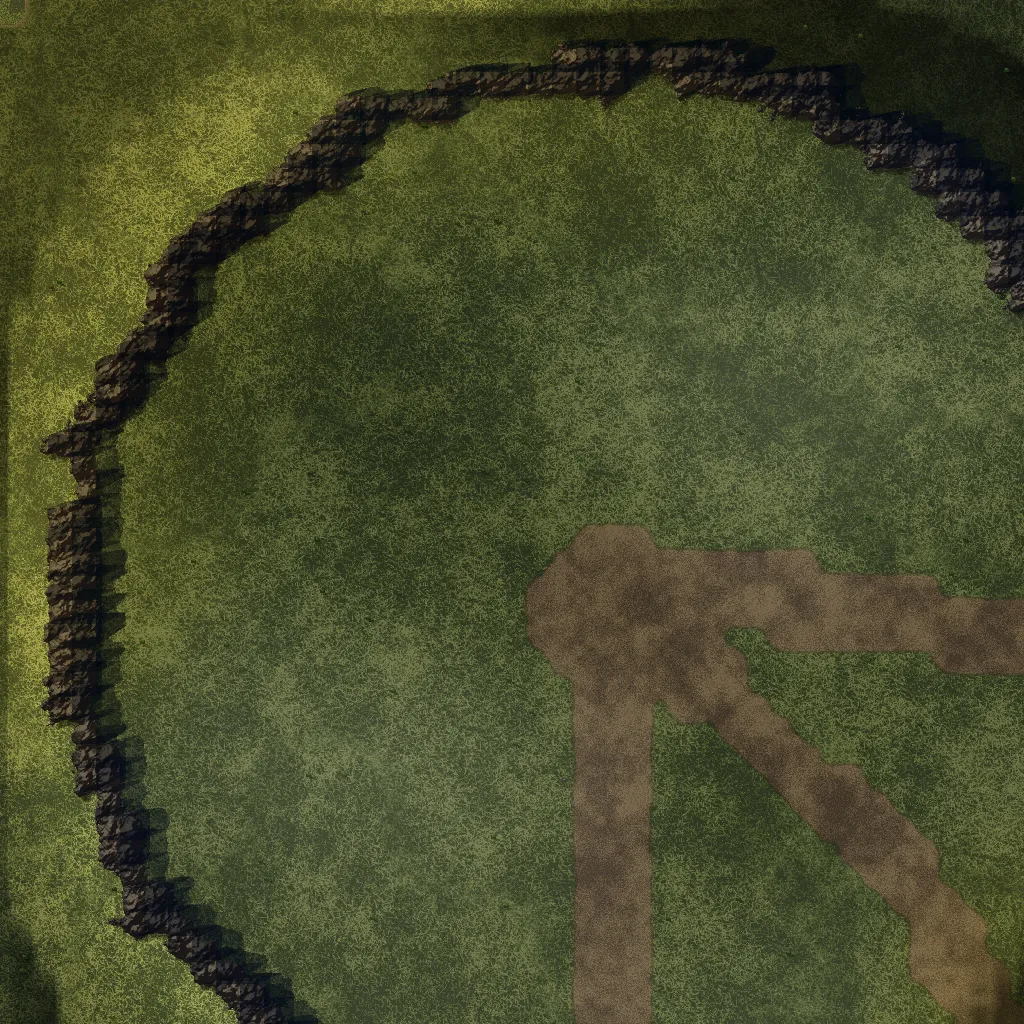
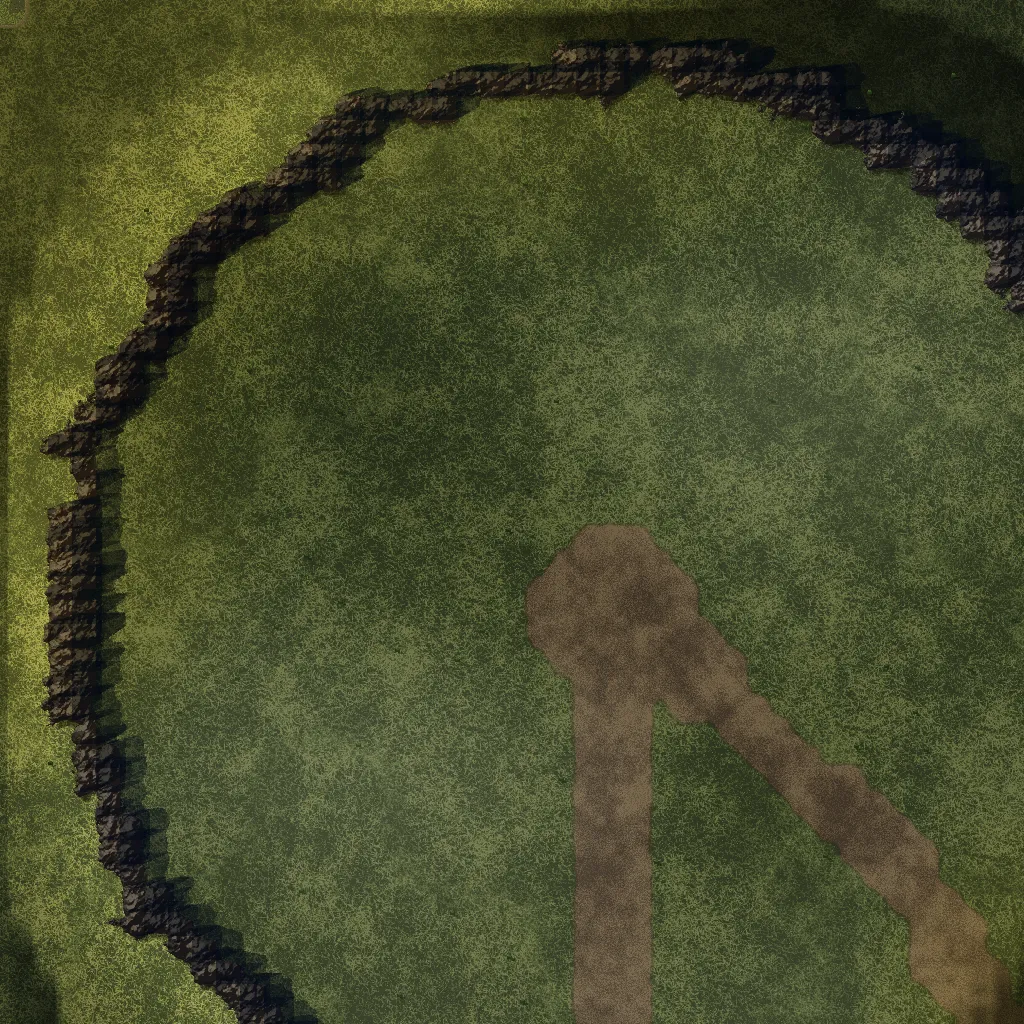
Heron Fen: one way across, through the village
The enemy-facing ramps and the causeways along the north and south edges
are gone; deep water runs from both edges to the village island, so
every west-east route crosses the town (make-marsh-map.py asserts it).
Before, the edge routes were about as short as the way through the
village and the computer fought there: in 14-minute computer 2 v 2s the
share of units lost in the village went from 6-8% to 39-47%. Ground,
crags and the map preview rebaked for the new layout.

Claude-Session: https://claude.ai/code/session_018itzs5AU5qvSmZLs2mza4P

Changed region(s): [[0.6562, 0.5312, 1.0, 0.6562]]

diff --git a/src/maps.js b/src/maps.js
@@ -1193,7 +1193,7 @@ const MAPS = {
   marsh: {
     name: 'Heron Fen',
     img: 'maps/marsh.png',
-    blurb: 'Four bases on high plateaus ringed by cliffs, each with three ramps down into a misty fen. Wade the shallows, skirt the deep pools and reed beds, or take the mud causeways to the little fishing village on its island in the middle. Always early morning, always fog in the low ground, and now and then rain.',
+    blurb: 'Four bases on high plateaus ringed by cliffs, each with two ramps down into a misty fen: one to your ally, one toward the middle. A deep channel splits west from east, and the only way across is the little fishing village on its island in the middle. Wade the shallows, skirt the pools and reed beds, or take the mud causeways. Always early morning, always fog in the low ground, and now and then rain.',
     info: '160 × 160 cells · 4 start positions · made for 2 v 2',
     size: 160,
     // West (start positions 0-1) against east (2-3); a 1 v 1 starts one player on each side (newWorld).
@@ -1219,17 +1219,17 @@ const MAPS = {
     gems: [[57,57,2.4],[102,57,2.4],[57,102,2.4],[102,102,2.4]],
     lots: [[69,69,72,72],[69,87,72,90],[87,69,90,72],[87,87,90,90],[69,75,72,77],[69,82,72,84],[87,75,90,77],[87,82,90,84],[75,69,77,72],[75,87,77,90],[82,69,84,72],[82,87,84,90]],
     rows: [
-      'f10.4T7.8T5.3T9.9f3,3T2,2.T2f3~2f2~f6Tf2~2f3~2fT2.2,3T3,9f9.3T5.8T7.4T10.f',
-      '11.4T7.8T6.2T10.,6f4,2T2,3.Tf4~2f2~2f.2T.2f2~2f4~fT3.2,2T4,6f,10.2T6.8T7.4T11.',
-      '11.3T9.8#20.3f.2,5f3.3f2~4f2~8f2~4f2~3f3.5f2,.3f20.8#9.3T11.',
-      '2T6.5T5.8#2.7#14.T.f2~.,T5f3.2f3~4f2~8f2~4f3~2f3.5fT,.2~f.T14.7#2.8#5.5T6.2T',
-      '2T5.4T3.5#13.3#16.f~2f2T2f3T4.f5~3f~8f~3f5~f4.3T2f2T2f~f16.3#13.5#3.4T5.2T',
-      '13.3#8.2T8.4#9.3f.4f11.f5~16f5~f11.4f.3f9.4#8.2T8.3#13.',
-      '12.3#8.3T8.2T4#9.5f12.2f4~16f4~2f6.2o4.5f9.4#2T8.3T8.3#12.',
-      '.5T5.3#24.3#9.f.T3.5o4.30f4.5o3.T.f9.3#24.3#5.5T.',
-      '.5T3.3#27.3#8.f4.7o3.7f~4f2~2f2~4f~7f4.6o4.f8.3#27.3#3.5T.',
-      '.4T3.3#T28.4#10.8o2.5f5~3f2~2f2~3f5~5f2.7o11.4#28.T3#3.4T.',
-      '7.2#3T23.3o3.3#10.8o2.f9~3f2~2f2~3f9~f2.8o10.3#2.5o22.3T2#7.',
+      'f10.4T7.8T5.3T9.9f3,3T2,2.T2f3~2f12~2f3~2fT2.2,3T3,9f9.3T5.8T7.4T10.f',
+      '11.4T7.8T6.2T10.,6f4,2T2,3.Tf4~2f12~2f4~fT3.2,2T4,6f,10.2T6.8T7.4T11.',
+      '11.3T9.8#20.3f.2,5f3.3f2~4f12~4f2~3f3.5f2,.3f20.8#9.3T11.',
+      '2T6.5T5.8#2.7#14.T.f2~.,T5f3.2f3~4f12~4f3~2f3.5fT,.2~f.T14.7#2.8#5.5T6.2T',
+      '2T5.4T3.5#13.3#16.f~2f2T2f3T4.f5~2f12~2f5~f4.3T2f2T2f~f16.3#13.5#3.4T5.2T',
+      '13.3#8.2T8.4#9.3f.4f11.f5~2f12~2f5~f11.4f.3f9.4#8.2T8.3#13.',
+      '12.3#8.3T8.2T4#9.5f12.2f4~2f12~2f4~2f6.2o4.5f9.4#2T8.3T8.3#12.',
+      '.5T5.3#24.3#9.f.T3.5o4.9f12~9f4.5o3.T.f9.3#24.3#5.5T.',
+      '.5T3.3#27.3#8.f4.7o3.7f~2f10~2f~7f4.6o4.f8.3#27.3#3.5T.',
+      '.4T3.3#T28.4#10.8o2.5f5~f10~f5~5f2.7o11.4#28.T3#3.4T.',
+      '7.2#3T23.3o3.3#10.8o2.f9~f10~f9~f2.8o10.3#2.5o22.3T2#7.',
       '6.2#5T21.5o2.3#7.T3.7o2.32~2.8o2.T7.3#.7o20.5T2#6.',
       '6.2#4.T20.7o2.3#6.2T2.7o2.3~3f20~3f3~2.7o2.2T6.3#2.7o20.T4.2#6.',
       '6.2#25.7o4.2#5.2T3.5o3.3~4f18~4f3~3.5o3.2T5.2#4.7o25.2#6.',
@@ -1237,55 +1237,55 @@ const MAPS = {
       '3.T2#28.6o5.2#3T12.6~2f.f16~f.2f6~12.3T2#6.5o28.2#T3.',
       '3.T2#29.3o7.2#4T7.3f7~5f14~5f7~3f7.4T2#8.2o29.2#T3.',
       '3.2#41.#.2T5.2T3f8~2f~3f12~3f~2f8~3f2T5.2T.#41.2#3.',
-      '2.2#40.T.2#6.4T3f6~26f6~3f4T6.2#.T40.2#2.',
-      '3T#3.2T35.3T#4.T2.4T.2f3~6f5.8T5.6f3~2f.4T2.T4.#3T35.2T3.#3T',
-      '3T#.4T36.2T#4.2T.3T,.9f7.8T7.9f.,3T.2T4.#2T36.4T.#3T',
-      '2T2#2.3T36.2T2#3.T2.2T.,3.7f8.T4.T8.7f3.,.2T2.T3.2#2T36.3T2.2#2T',
-      '.T2#42.2T4.T5.3,5.f5.f3.3T2f3T3.f5.f5.3,5.T4.2T42.2#T.',
-      '2.2#21.9,8.T15.5,6.2T.f3.2T4f2T3.f.2T6.5,15.T8.9,21.2#2.',
-      '2.2#20.15,3.3T5.2,6.5,T,.T2.2T5.3,2f3,5.2T2.T.,T5,6.2,5.3T3.15,20.2#2.',
-      '2.2#20.32,3.4,3.2T7.4,2f4,7.2T3.4,3.32,20.2#2.',
-      '2.2#20.6,2.26,8.2T,3.7f2~7f3.,2T8.26,2.6,20.2#2.',
-      '2.2#20.7,8.22,4.2T5f3~4f2~4f3~5f2T4.22,8.7,20.2#2.',
-      '2.2#20.7,17.2T6.7,2.30,2.7,6.2T17.7,20.2#2.',
-      '2.2#20.3,.4,15.2#10.42,10.2#15.4,.3,20.2#2.',
-      '3.#20.3,3.3,14.2#10.2f38,2f10.2#14.3,3.3,20.#3.',
-      'T2.2#4.T14.3,4.3,13.2#10.f2~9f2.f4~4,4~f2.9f2~f10.2#13.3,4.3,14.T4.2#2.T',
-      'T2.2#4.T14.3,5.4,11.#11.f4~3f~8f3~2f3~8f~3f4~f11.#11.4,5.3,14.T4.2#2.T',
-      'T3.#7.3o9.3,6.4,9.2#10.f6~2f2~7f8~7f2~2f6~f10.2#9.4,6.3,8.5o6.#3.T',
-      '2T2.2#4.6o8.3,7.4,7.2#8.2T,f9~8f8~8f9~f,2T8.2#7.4,7.3,8.6o4.2#2.2T',
-      '2T2.2#4.7o7.3,8.4,5.3#8.2T,f9~8f8~8f9~f,2T8.3#5.4,8.3,7.7o4.2#2.2T',
-      '2T3.#T3.7o7.3,9.3,5.2#10.T2f10~7f3~2,3~7f10~2fT10.2#5.3,9.3,7.7o3.T#3.2T',
-      '2T3.2#3.6o8.3,10.3,4.2#10.,f~2f4~f3~5f5~2,5~5f3~f4~2f~f,10.2#4.3,10.3,7.7o3.2#3.2T',
-      'T4.3#2.6o8.3,11.3,T2.2#10.2f~2f4~f3~6f4~2,4~6f3~f4~2f~2f10.2#2.T3,11.3,8.6o2.3#4.T',
-      '7.2#3.3o9.3,9.2T3,5T9.2f3~f7~4f2.5f2,5f2.4f7~f3~2f9.5T3,2T9.3,9.3o3.2#7.',
-      '8.2#14.3,7.4T4,4T8.2f11~5f.2T4.2,4.2T.5f11~2f8.4T4,4T7.3,14.2#8.',
-      '9.2#13.3,9.T2.3,4T8.2f11~5f4T3.2,3.4T5f11~2f8.4T3,2.T9.3,13.2#9.',
-      '10.2#12.3,9.T3.3,3T6.2Tf10~9f2T,2.2,2.,2T9f10~f2T6.3T3,3.T9.3,12.2#10.',
-      '10.3#11.3,13.4,T9.f2~f6~10fT3,.2,.3,T10f6~f2~f9.T4,13.3,11.3#10.',
-      '.T9.3#10.3,8.4#2.4,9.5f3~2f2~2fT,2.f2.3,4.3,2.f2.,T2f2~2f3~5f9.4,2.4#8.3,10.3#9.T.',
-      '3T10.4#7.3,6.6#3.4,7.7f~4f~f3T5.3,4.3,5.3Tf~4f~7f7.4,3.6#6.3,7.4#10.3T',
-      '5T11.3#5.3,2.#2.5#6.5,5.4f~4f.,2f3T7.,6.,7.3T2f,.4f~4f5.5,6.5#2.#2.3,5.3#11.5T',
-      '6T5.3T3.5#2.3,2.5#9.T5,4.f5~f6,2T7.f8.f7.2T6,f5~f4.5,T9.5#2.3,2.5#3.3T5.6T',
-      '2.5T3.4T5.3#2.3,2.3#11.2T7,2f5~f6,2T2.f4.f3.2,3.f4.f2.2T6,f5~2f7,2T11.3#2.3,2.3#5.4T3.5T2.',
-      '4.5T.4T10.3,16.3T7,f5~f6,2T2.f3.T3.T2,T3.T3.f2.2T6,f5~f7,3T16.3,10.4T.5T4.',
-      '4.5T14.4,9.T6.3T.7,3f2~f2.4f2T2.3f.T3.T2,T3.T.3f2.2T4f2.f2~3f7,.3T6.T9.4,14.5T4.',
-      'T22.4,7.3T4.T.4Tf7,4~7f7.2T3.T2,T3.2T7.7f4~7,f4T.T4.3T7.4,22.T',
-      '2T21.4,5.6T5.2T2f2~2f5,4~9f3.2T3f.T2,T.3f2T3.9f4~5,2f2~2f2T5.6T5.4,21.2T',
-      '2T20.5,5.2T10.Tf7~4,3~10f3.T3f2T2,2T3fT3.10f3~4,7~fT10.2T5.5,20.2T',
-      '2T.2T10.5o3.3,18.f9~,5.5f~4f3.5T.2,.5T3.4f~5f5.,9~f18.3,3.5o10.2T.2T',
-      'T6.f6.7o2.3,.3T6.2fT4.2f2~2f5~7.4f2~4f.3~4.2,4.3~.4f2~4f7.5~2f2~2f4.T2f6.3T.3,2.7o6.f6.T',
-      'T5.3T4.9o2.2,10.3fT3.2f2~f6~7.6f2~2f5~3.2,3.5~2f2~6f7.6~f2~2f3.T3f10.2,3.7o5.3T5.T',
-      '.T3.4T4.9o2.,12.2f5.4f6~7.4fTf2~f6~f2.2,2.f6~f2~fT4f7.6~4f5.2f12.,2.9o4.4T3.T.',
-      'T5.3T.f2.9o2.,12.2f4.6f5~7.f2~f.f2~f7~.f2,f.7~f2~f.f2~f7.5~6f4.2f12.,2.9o2.f.3T5.T',
-      '7.2T.f2.9o2.,f5.6T6f~10f7.3~f.3f8~2f2,2f8~3f.f3~7.10f~6f6T5.f,2.9o2.f.2T7.',
-      '2.2f3.2T2f3.7o3.,f5.6T.3f4~3f3T3.f5.2,3~4f9~4,9~4f3~2,5.f3.3T3f4~3f.6T5.f,2.9o2.2f2T3.2f2.',
-      '7f2.3f2.6o3.,2f4.6T3.f6~f.2T5.2f.f3,3~4f2~2=4~f4,f4~2=2~4f3~3,f.2f5.2T.f6~f3.6T4.2f,2.7o2.3f2.7f',
-      '2~2f3~2f2.f4.4o3.,2f4.6T4.f5~f3T8.2f3,~3f~f.~2=3~2f4,2f3~2=~.f~3f~3,2f8.3Tf5~f4.6T4.2f,3.5o3.f2.2f3~2f2~',
-      '2~2f3~2f2.f~9.2,2f2.8T4.f5~f4T3,2.T.2f~3,~2f~f2.2=3~2f4,2f3~2=2.f~2f~3,~2f.T2.3,4Tf5~f4.8T2.2f2,9.~f2.2f3~2f2~',
-      '10f.4f5.2f3,f.7T6.f3~2f.4T4,3.3f~3,4f2.2=2~3f4,3f2~2=2.4f3,~3f3.4,4T.2f3~f6.7T.f3,2f5.4f.10f',
-      '2.2f3.2f3.5f3.2f3,f4.2T8.f3~f3.3T4,3.3f~4,5.2=5.4,5.2=5.4,~3f3.4,3T3.f3~f8.2T4.f3,2f3.5f3.2f3.2f2.',
-      '7.2f6.f2.T2.f3,f14.f3~f3.2T6.,.3f2~4,4.2=2.,2.4,2.,2.2=4.4,2~3f.,6.2T3.f3~f14.f3,f2.T2.f6.2f7.',
+      '2.2#40.T.2#6.4T3f6~7f12~7f6~3f4T6.2#.T40.2#2.',
+      '3T#3.2T35.3T#4.T2.4T.2f3~6f3.12~3.6f3~2f.4T2.T4.#3T35.2T3.#3T',
+      '3T#.4T36.2T#4.2T.3T,.9f5.12~5.9f.,3T.2T4.#2T36.4T.#3T',
+      '2T2#2.3T36.2T2#3.T2.2T.,3.7f4.14~4.7f3.,.2T2.T3.2#2T36.3T2.2#2T',
+      '.T2#42.T2#3.T5.3,5.f5.f.12~.f5.f5.3,5.T3.2#T42.2#T.',
+      '2.2#21.2,15.T4.2#9.5,6.2T.f.12~.f.2T6.5,9.2#4.T15.2,21.2#2.',
+      '2.2#20.4,14.3T2.2#9.5,T,.T2.2T3.12~3.2T2.T.,T5,9.2#2.3T14.4,20.2#2.',
+      '2.2#20.5,14.T3.2#10.4,3.2T6.12~6.2T3.4,10.2#3.T14.5,20.2#2.',
+      '2.2#20.6,12.T4.#18.2T,3.2f12~2f3.,2T18.#4.T12.6,20.2#2.',
+      '2.2#20.7,11.T4.#2T9.Tf4.2T5f16~5f2T4.fT9.2T#4.T11.7,20.2#2.',
+      '2.2#20.7,16.2#T9.Tf4.2T5f16~5f2T4.fT9.T2#16.7,20.2#2.',
+      '2.2#20.3,.4,15.2#10.T2f3.T8f12~8fT3.2fT10.2#15.4,.3,20.2#2.',
+      '3.#20.3,3.3,14.2#10.11f3.f12~f3.11f10.2#14.3,3.3,20.#3.',
+      'T2.2#4.T14.3,4.3,13.2#10.f2~9f2.f12~f2.9f2~f10.2#13.3,4.3,14.T4.2#2.T',
+      'T2.2#4.T14.3,5.4,11.#11.f4~3f~6f12~6f~3f4~f11.#11.4,5.3,14.T4.2#2.T',
+      'T3.#7.3o9.3,6.4,9.2#10.f6~2f2~5f12~5f2~2f6~f10.2#9.4,6.3,8.5o6.#3.T',
+      '2T2.2#4.6o8.3,7.4,7.2#8.2T,f9~6f12~6f9~f,2T8.2#7.4,7.3,8.6o4.2#2.2T',
+      '2T2.2#4.7o7.3,8.4,5.3#8.2T,f9~6f12~6f9~f,2T8.3#5.4,8.3,7.7o4.2#2.2T',
+      '2T3.#T3.7o7.3,9.3,5.2#10.T2f10~4f~f10~f~4f10~2fT10.2#5.3,9.3,7.7o3.T#3.2T',
+      '2T3.2#3.6o8.3,10.3,4.2#10.,f~2f4~f3~5f12~5f3~f4~2f~f,10.2#4.3,10.3,7.7o3.2#3.2T',
+      'T4.3#2.6o8.3,11.3,T2.2#10.2f~2f4~f3~6f10~6f3~f4~2f~2f10.2#2.T3,11.3,8.6o2.3#4.T',
+      '7.2#3.3o9.3,9.2T3,5T9.2f3~f7~4f2.f10~f2.4f7~f3~2f9.5T3,2T9.3,9.3o3.2#7.',
+      '8.2#14.3,7.4T4,4T8.2f11~5f.2T10~2T.5f11~2f8.4T4,4T7.3,14.2#8.',
+      '9.2#13.3,9.T2.3,4T8.2f11~5f2T12~2T5f11~2f8.4T3,2.T9.3,13.2#9.',
+      '10.2#12.3,9.T3.3,3T6.2Tf10~9f12~9f10~f2T6.3T3,3.T9.3,12.2#10.',
+      '10.3#11.3,13.4,T9.f2~f6~10f12~10f6~f2~f9.T4,13.3,11.3#10.',
+      '.T9.3#10.3,8.4#2.4,9.5f3~2f2~2fT,2.f.12~.f2.,T2f2~2f3~5f9.4,2.4#8.3,10.3#9.T.',
+      '3T10.4#7.3,6.6#3.4,7.7f~4f~f3T4.12~4.3Tf~4f~7f7.4,3.6#6.3,7.4#10.3T',
+      '5T11.3#5.3,2.#2.5#6.5,5.4f~4f.,2f3T5.12~5.3T2f,.4f~4f5.5,6.5#2.#2.3,5.3#11.5T',
+      '6T5.3T3.5#2.3,2.5#9.T5,4.f5~f6,2T6.12~6.2T6,f5~f4.5,T9.5#2.3,2.5#3.3T5.6T',
+      '2.5T3.4T5.3#2.3,2.3#11.2T7,2f5~f6,2T2.f3.12~3.f2.2T6,f5~2f7,2T11.3#2.3,2.3#5.4T3.5T2.',
+      '4.5T.4T10.3,16.3T7,f5~f6,2T2.f3.12~3.f2.2T6,f5~f7,3T16.3,10.4T.5T4.',
+      '4.5T14.4,9.T6.3T.7,3f2~f2.4f2T2.3f.12~.3f2.2T4f2.f2~3f7,.3T6.T9.4,14.5T4.',
+      'T22.4,7.3T4.T.4Tf7,4~7f7.T12~T7.7f4~7,f4T.T4.3T7.4,22.T',
+      '2T21.4,5.6T5.2T2f2~2f5,4~9f3.2T12~2T3.9f4~5,2f2~2f2T5.6T5.4,21.2T',
+      '2T20.5,5.2T10.Tf7~4,3~10f3.T12~T3.10f3~4,7~fT10.2T5.5,20.2T',
+      '2T.2T10.5o3.3,18.f9~,5.5f~4f3.2T10~2T3.4f~5f5.,9~f18.3,3.5o10.2T.2T',
+      'T6.f6.7o2.3,.3T6.2fT4.2f2~2f5~7.4f2~4f.16~.4f2~4f7.5~2f2~2f4.T2f6.3T.3,2.7o6.f6.T',
+      'T5.3T4.9o2.2,10.3fT3.2f2~f6~7.6f2~2f18~2f2~6f7.6~f2~2f3.T3f10.2,3.7o5.3T5.T',
+      '.T3.4T4.9o2.,12.2f5.4f6~7.4fTf2~f20~f2~fT4f7.6~4f5.2f12.,2.9o4.4T3.T.',
+      'T5.3T.f2.9o2.,12.2f4.6f5~7.f2~f.f2~f20~f2~f.f2~f7.5~6f4.2f12.,2.9o2.f.3T5.T',
+      '7.2T.f2.9o2.,f5.6T6f~10f7.3~f.3f22~3f.f3~7.10f~6f6T5.f,2.9o2.f.2T7.',
+      '2.2f3.2T2f3.7o3.,f5.6T.3f4~3f3T3.f5.2,3~4f22~4f3~2,5.f3.3T3f4~3f.6T5.f,2.9o2.2f2T3.2f2.',
+      '7f2.3f2.6o3.,2f4.6T3.f6~f.2T5.2f.f3,3~4f2~2=14~2=2~4f3~3,f.2f5.2T.f6~f3.6T4.2f,2.7o2.3f2.7f',
+      '2~2f3~2f2.f4.4o3.,2f4.6T4.f5~f3T8.2f3,~3f~f.~2=14~2=~.f~3f~3,2f8.3Tf5~f4.6T4.2f,3.5o3.f2.2f3~2f2~',
+      '2~2f3~2f2.f~9.2,2f2.8T4.f5~f4T3,2.T.2f~3,~2f~f2.2=14~2=2.f~2f~3,~2f.T2.3,4Tf5~f4.8T2.2f2,9.~f2.2f3~2f2~',
+      '10f.4f5.2f3,f.7T6.f3~2f.4T4,3.3f~3,4f2.2=14~2=2.4f3,~3f3.4,4T.2f3~f6.7T.f3,2f5.4f.10f',
+      '2.2f3.2f3.5f3.2f3,f4.2T8.f3~f3.3T4,3.3f~4,5.2=.12~.2=5.4,~3f3.4,3T3.f3~f8.2T4.f3,2f3.5f3.2f3.2f2.',
+      '7.2f6.f2.T2.f3,f14.f3~f3.2T6.,.3f2~4,4.2=2.,8.,2.2=4.4,2~3f.,6.2T3.f3~f14.f3,f2.T2.f6.2f7.',
       '22.3,3f12.2f2~f3.3T2.f.3,.f4~32,4~f.3,.f2.3T3.f2~2f12.3f3,22.',
       '22.3,.3f12.f2~f2.f.T2.3f3,2f5~30,5~2f3,3f2.T.f2.f2~f12.3f.3,22.',
       '16.2T4.3,.5f4.T.2T2.f2~5f3.3f10~.3,4.2,3.4,3.2,4.3,.10~3f3.5f2~f2.2T.T4.5f.3,4.2T16.',
@@ -1312,55 +1312,55 @@ const MAPS = {
       '16.2T4.3,.5f4.T.2T2.f2~5f3.3f10~.3,4.2,3.4,3.2,4.3,.10~3f3.5f2~f2.2T.T4.5f.3,4.2T16.',
       '22.3,.3f12.f2~f2.f.T2.3f3,2f5~30,5~2f3,3f2.T.f2.f2~f12.3f.3,22.',
       '22.3,3f12.2f2~f3.3T2.f.3,.f4~32,4~f.3,.f2.3T3.f2~2f12.3f3,22.',
-      '7.2f6.f2.T2.f3,f14.f3~f3.2T6.,.3f2~4,4.2=2.,2.4,2.,2.2=4.4,2~3f.,6.2T3.f3~f14.f3,f2.T2.f6.2f7.',
-      '2.2f3.2f3.5f3.2f3,f4.2T8.f3~f3.3T4,3.3f~4,5.2=5.4,5.2=5.4,~3f3.4,3T3.f3~f8.2T4.f3,2f3.5f3.2f3.2f2.',
-      '10f.4f5.2f3,f.7T6.f3~2f.4T4,3.3f~3,4f2.2=2~3f4,3f2~2=2.4f3,~3f3.4,4T.2f3~f6.7T.f3,2f5.4f.10f',
-      '2~2f3~2f2.f~9.2,2f2.8T4.f5~f4T3,2.T.2f~3,~2f~f2.2=3~2f4,2f3~2=2.f~2f~3,~2f.T2.3,4Tf5~f4.8T2.2f2,9.~f2.2f3~2f2~',
-      '2~2f3~2f2.f3.5o3.,2f4.6T4.f5~f3T8.2f3,~3f~f.~2=3~2f4,2f3~2=~.f~3f~3,2f8.3Tf5~f4.6T4.2f,3.4o4.f2.2f3~2f2~',
-      '7f2.3f2.7o2.,2f4.6T3.f6~f.2T5.2f.f3,3~4f2~2=4~f4,f4~2=2~4f3~3,f.2f5.2T.f6~f3.6T4.2f,2.7o2.3f2.7f',
-      '2.2f3.2T2f2.9o2.,f5.6T.3f4~3f3T3.f5.2,3~4f9~4,9~4f3~2,5.f3.3T3f4~3f.6T5.f,2.9o2.2f2T3.2f2.',
-      '7.2T.f2.9o2.,f5.6T6f~10f7.3~f.3f8~2f2,2f8~3f.f3~7.10f~6f6T5.f,2.9o2.f.2T7.',
-      'T5.3T.f2.9o2.,12.2f4.6f5~7.f2~f.f2~f7~.f2,f.7~f2~f.f2~f7.5~6f4.2f12.,2.9o2.f.3T5.T',
-      '.T3.4T4.9o2.,12.2f5.4f6~7.4fTf2~f6~f2.2,2.f6~f2~fT4f7.6~4f5.2f12.,2.9o4.4T3.T.',
-      'T5.3T5.7o3.2,10.3fT3.2f2~f6~7.6f2~2f5~3.2,3.5~2f2~6f7.6~f2~2f3.T3f10.2,2.8o5.3T5.T',
-      'T6.f6.7o2.3,.3T6.2fT4.2f2~2f5~7.4f2~4f.3~4.2,4.3~.4f2~4f7.5~2f2~2f4.T2f6.3T.3,2.7o6.f6.T',
-      '2T.2T11.4o3.3,18.f9~,5.5f~4f3.5T.2,.5T3.4f~5f5.,9~f18.3,3.5o10.2T.2T',
-      '2T20.5,5.2T10.Tf7~4,3~10f3.T3f2T2,2T3fT3.10f3~4,7~fT10.2T5.5,20.2T',
-      '2T21.4,5.6T5.2T2f2~2f5,4~9f3.2T3f.T2,T.3f2T3.9f4~5,2f2~2f2T5.6T5.4,21.2T',
-      'T22.4,7.3T4.T.4Tf7,4~7f7.2T3.T2,T3.2T7.7f4~7,f4T.T4.3T7.4,22.T',
-      '4.5T14.4,9.T6.3T.7,3f2~f2.4f2T2.3f.T3.T2,T3.T.3f2.2T4f2.f2~3f7,.3T6.T9.4,14.5T4.',
-      '4.5T.4T10.3,16.3T7,f5~f6,2T2.f3.T3.T2,T3.T3.f2.2T6,f5~f7,3T16.3,10.4T.5T4.',
-      '2.5T3.4T5.3#2.3,2.3#11.2T7,2f5~f6,2T2.f4.f3.2,3.f4.f2.2T6,f5~2f7,2T11.3#2.3,2.3#5.4T3.5T2.',
-      '6T5.3T3.5#2.3,2.5#9.T5,4.f5~f6,2T7.f8.f7.2T6,f5~f4.5,T9.5#2.3,2.5#3.3T5.6T',
-      '5T11.3#5.3,2.#2.5#6.5,5.4f~4f.,2f3T7.,6.,7.3T2f,.4f~4f5.5,6.5#2.#2.3,5.3#11.5T',
-      '3T10.4#7.3,6.6#3.4,7.7f~4f~f3T5.3,4.3,5.3Tf~4f~7f7.4,3.6#6.3,7.4#10.3T',
-      '.T9.3#10.3,8.4#2.4,9.5f3~2f2~2fT,2.f2.3,4.3,2.f2.,T2f2~2f3~5f9.4,2.4#8.3,10.3#9.T.',
-      '10.3#11.3,13.4,T9.f2~f6~10fT3,.2,.3,T10f6~f2~f9.T4,13.3,11.3#10.',
-      '10.2#12.3,9.T3.3,3T6.2Tf10~9f2T,2.2,2.,2T9f10~f2T6.3T3,3.T9.3,12.2#10.',
-      '9.2#13.3,9.T2.3,4T8.2f11~5f4T3.2,3.4T5f11~2f8.4T3,2.T9.3,13.2#9.',
-      '8.2#14.3,7.4T4,4T8.2f11~5f.2T4.2,4.2T.5f11~2f8.4T4,4T7.3,14.2#8.',
-      '7.2#2.4o9.3,9.2T3,5T9.2f3~f7~4f2.5f2,5f2.4f7~f3~2f9.5T3,2T9.3,9.4o2.2#7.',
-      'T4.3#3.5o8.3,11.3,T2.2#10.2f~2f4~f3~6f4~2,4~6f3~f4~2f~2f10.2#2.T3,11.3,8.5o3.3#4.T',
-      '2T3.2#3.7o7.3,10.3,4.2#10.,f~2f4~f3~5f5~2,5~5f3~f4~2f~f,10.2#4.3,10.3,7.7o3.2#3.2T',
-      '2T3.#T3.7o7.3,9.3,5.2#10.T2f10~7f3~2,3~7f10~2fT10.2#5.3,9.3,7.7o3.T#3.2T',
-      '2T2.2#4.7o7.3,8.4,5.3#8.2T,f9~8f8~8f9~f,2T8.3#5.4,8.3,7.7o4.2#2.2T',
-      '2T2.2#5.5o8.3,7.4,7.2#8.2T,f9~8f8~8f9~f,2T8.2#7.4,7.3,7.6o5.2#2.2T',
-      'T3.#7.3o9.3,6.4,9.2#10.f6~2f2~7f8~7f2~2f6~f10.2#9.4,6.3,9.4o6.#3.T',
-      'T2.2#4.T14.3,5.4,11.#11.f4~3f~8f3~2f3~8f~3f4~f11.#11.4,5.3,14.T4.2#2.T',
-      'T2.2#4.T14.3,4.3,13.2#10.f2~9f2.f4~4,4~f2.9f2~f10.2#13.3,4.3,14.T4.2#2.T',
-      '3.#20.3,3.3,14.2#10.2f38,2f10.2#14.3,3.3,20.#3.',
-      '2.2#20.3,.4,15.2#10.42,10.2#15.4,.3,20.2#2.',
-      '2.2#20.7,17.2T6.7,2.30,2.7,6.2T17.7,20.2#2.',
-      '2.2#20.7,8.22,4.2T5f3~4f2~4f3~5f2T4.22,8.7,20.2#2.',
-      '2.2#20.6,2.26,8.2T,3.7f2~7f3.,2T8.26,2.6,20.2#2.',
-      '2.2#20.32,3.4,3.2T7.4,2f4,7.2T3.4,3.32,20.2#2.',
-      '2.2#20.15,3.3T5.2,6.5,T,.T2.2T5.3,2f3,5.2T2.T.,T5,6.2,5.3T3.15,20.2#2.',
-      '2.2#21.9,8.T15.5,6.2T.f3.2T4f2T3.f.2T6.5,15.T8.9,21.2#2.',
-      '.T2#42.2T4.T5.3,5.f5.f3.3T2f3T3.f5.f5.3,5.T4.2T42.2#T.',
-      '2T2#2.3T36.2T2#3.T2.2T.,3.7f8.T4.T8.7f3.,.2T2.T3.2#2T36.3T2.2#2T',
-      '3T#.4T36.2T#4.2T.3T,.9f7.8T7.9f.,3T.2T4.#2T36.4T.#3T',
-      '3T#3.2T35.3T#4.T2.4T.2f3~6f5.8T5.6f3~2f.4T2.T4.#3T35.2T3.#3T',
-      '2.2#40.T.2#6.4T3f6~26f6~3f4T6.2#.T40.2#2.',
+      '7.2f6.f2.T2.f3,f14.f3~f3.2T6.,.3f2~4,4.2=2.,8.,2.2=4.4,2~3f.,6.2T3.f3~f14.f3,f2.T2.f6.2f7.',
+      '2.2f3.2f3.5f3.2f3,f4.2T8.f3~f3.3T4,3.3f~4,5.2=.12~.2=5.4,~3f3.4,3T3.f3~f8.2T4.f3,2f3.5f3.2f3.2f2.',
+      '10f.4f5.2f3,f.7T6.f3~2f.4T4,3.3f~3,4f2.2=14~2=2.4f3,~3f3.4,4T.2f3~f6.7T.f3,2f5.4f.10f',
+      '2~2f3~2f2.f~9.2,2f2.8T4.f5~f4T3,2.T.2f~3,~2f~f2.2=14~2=2.f~2f~3,~2f.T2.3,4Tf5~f4.8T2.2f2,9.~f2.2f3~2f2~',
+      '2~2f3~2f2.f3.5o3.,2f4.6T4.f5~f3T8.2f3,~3f~f.~2=14~2=~.f~3f~3,2f8.3Tf5~f4.6T4.2f,3.4o4.f2.2f3~2f2~',
+      '7f2.3f2.7o2.,2f4.6T3.f6~f.2T5.2f.f3,3~4f2~2=14~2=2~4f3~3,f.2f5.2T.f6~f3.6T4.2f,2.7o2.3f2.7f',
+      '2.2f3.2T2f2.9o2.,f5.6T.3f4~3f3T3.f5.2,3~4f22~4f3~2,5.f3.3T3f4~3f.6T5.f,2.9o2.2f2T3.2f2.',
+      '7.2T.f2.9o2.,f5.6T6f~10f7.3~f.3f22~3f.f3~7.10f~6f6T5.f,2.9o2.f.2T7.',
+      'T5.3T.f2.9o2.,12.2f4.6f5~7.f2~f.f2~f20~f2~f.f2~f7.5~6f4.2f12.,2.9o2.f.3T5.T',
+      '.T3.4T4.9o2.,12.2f5.4f6~7.4fTf2~f20~f2~fT4f7.6~4f5.2f12.,2.9o4.4T3.T.',
+      'T5.3T5.7o3.2,10.3fT3.2f2~f6~7.6f2~2f18~2f2~6f7.6~f2~2f3.T3f10.2,2.8o5.3T5.T',
+      'T6.f6.7o2.3,.3T6.2fT4.2f2~2f5~7.4f2~4f.16~.4f2~4f7.5~2f2~2f4.T2f6.3T.3,2.7o6.f6.T',
+      '2T.2T11.4o3.3,18.f9~,5.5f~4f3.2T10~2T3.4f~5f5.,9~f18.3,3.5o10.2T.2T',
+      '2T20.5,5.2T10.Tf7~4,3~10f3.T12~T3.10f3~4,7~fT10.2T5.5,20.2T',
+      '2T21.4,5.6T5.2T2f2~2f5,4~9f3.2T12~2T3.9f4~5,2f2~2f2T5.6T5.4,21.2T',
+      'T22.4,7.3T4.T.4Tf7,4~7f7.T12~T7.7f4~7,f4T.T4.3T7.4,22.T',
+      '4.5T14.4,9.T6.3T.7,3f2~f2.4f2T2.3f.12~.3f2.2T4f2.f2~3f7,.3T6.T9.4,14.5T4.',
+      '4.5T.4T10.3,16.3T7,f5~f6,2T2.f3.12~3.f2.2T6,f5~f7,3T16.3,10.4T.5T4.',
+      '2.5T3.4T5.3#2.3,2.3#11.2T7,2f5~f6,2T2.f3.12~3.f2.2T6,f5~2f7,2T11.3#2.3,2.3#5.4T3.5T2.',
+      '6T5.3T3.5#2.3,2.5#9.T5,4.f5~f6,2T6.12~6.2T6,f5~f4.5,T9.5#2.3,2.5#3.3T5.6T',
+      '5T11.3#5.3,2.#2.5#6.5,5.4f~4f.,2f3T5.12~5.3T2f,.4f~4f5.5,6.5#2.#2.3,5.3#11.5T',
+      '3T10.4#7.3,6.6#3.4,7.7f~4f~f3T4.12~4.3Tf~4f~7f7.4,3.6#6.3,7.4#10.3T',
+      '.T9.3#10.3,8.4#2.4,9.5f3~2f2~2fT,2.f.12~.f2.,T2f2~2f3~5f9.4,2.4#8.3,10.3#9.T.',
+      '10.3#11.3,13.4,T9.f2~f6~10f12~10f6~f2~f9.T4,13.3,11.3#10.',
+      '10.2#12.3,9.T3.3,3T6.2Tf10~9f12~9f10~f2T6.3T3,3.T9.3,12.2#10.',
+      '9.2#13.3,9.T2.3,4T8.2f11~5f2T12~2T5f11~2f8.4T3,2.T9.3,13.2#9.',
+      '8.2#14.3,7.4T4,4T8.2f11~5f.2T10~2T.5f11~2f8.4T4,4T7.3,14.2#8.',
+      '7.2#2.4o9.3,9.2T3,5T9.2f3~f7~4f2.f10~f2.4f7~f3~2f9.5T3,2T9.3,9.4o2.2#7.',
+      'T4.3#3.5o8.3,11.3,T2.2#10.2f~2f4~f3~6f10~6f3~f4~2f~2f10.2#2.T3,11.3,8.5o3.3#4.T',
+      '2T3.2#3.7o7.3,10.3,4.2#10.,f~2f4~f3~5f12~5f3~f4~2f~f,10.2#4.3,10.3,7.7o3.2#3.2T',
+      '2T3.#T3.7o7.3,9.3,5.2#10.T2f10~4f~f10~f~4f10~2fT10.2#5.3,9.3,7.7o3.T#3.2T',
+      '2T2.2#4.7o7.3,8.4,5.3#8.2T,f9~6f12~6f9~f,2T8.3#5.4,8.3,7.7o4.2#2.2T',
+      '2T2.2#5.5o8.3,7.4,7.2#8.2T,f9~6f12~6f9~f,2T8.2#7.4,7.3,7.6o5.2#2.2T',
+      'T3.#7.3o9.3,6.4,9.2#10.f6~2f2~5f12~5f2~2f6~f10.2#9.4,6.3,9.4o6.#3.T',
+      'T2.2#4.T14.3,5.4,11.#11.f4~3f~6f12~6f~3f4~f11.#11.4,5.3,14.T4.2#2.T',
+      'T2.2#4.T14.3,4.3,13.2#10.f2~9f2.f12~f2.9f2~f10.2#13.3,4.3,14.T4.2#2.T',
+      '3.#20.3,3.3,14.2#10.11f3.f12~f3.11f10.2#14.3,3.3,20.#3.',
+      '2.2#20.3,.4,15.2#10.T2f3.T8f12~8fT3.2fT10.2#15.4,.3,20.2#2.',
+      '2.2#20.7,16.2#T9.Tf4.2T5f16~5f2T4.fT9.T2#16.7,20.2#2.',
+      '2.2#20.7,11.T4.#2T9.Tf4.2T5f16~5f2T4.fT9.2T#4.T11.7,20.2#2.',
+      '2.2#20.6,12.T4.#18.2T,3.2f12~2f3.,2T18.#4.T12.6,20.2#2.',
+      '2.2#20.5,14.T3.2#10.4,3.2T6.12~6.2T3.4,10.2#3.T14.5,20.2#2.',
+      '2.2#20.4,14.3T2.2#9.5,T,.T2.2T3.12~3.2T2.T.,T5,9.2#2.3T14.4,20.2#2.',
+      '2.2#21.2,15.T4.2#9.5,6.2T.f.12~.f.2T6.5,9.2#4.T15.2,21.2#2.',
+      '.T2#42.T2#3.T5.3,5.f5.f.12~.f5.f5.3,5.T3.2#T42.2#T.',
+      '2T2#2.3T36.2T2#3.T2.2T.,3.7f4.14~4.7f3.,.2T2.T3.2#2T36.3T2.2#2T',
+      '3T#.4T36.2T#4.2T.3T,.9f5.12~5.9f.,3T.2T4.#2T36.4T.#3T',
+      '3T#3.2T35.3T#4.T2.4T.2f3~6f3.12~3.6f3~2f.4T2.T4.#3T35.2T3.#3T',
+      '2.2#40.T.2#6.4T3f6~7f12~7f6~3f4T6.2#.T40.2#2.',
       '3.2#41.#.2T5.2T3f8~2f~3f12~3f~2f8~3f2T5.2T.#41.2#3.',
       '3.T2#29.4o6.2#4T7.3f7~5f14~5f7~3f7.4T2#6.4o29.2#T3.',
       '3.T2#28.6o5.2#3T12.6~2f.f16~f.2f6~12.3T2#5.7o27.2#T3.',
@@ -1368,17 +1368,17 @@ const MAPS = {
       '6.2#25.7o4.2#5.2T3.5o3.3~4f18~4f3~3.5o3.2T5.2#4.7o25.2#6.',
       '6.2#4.T20.7o2.3#6.2T2.7o2.3~3f20~3f3~2.7o2.2T6.3#2.7o20.T4.2#6.',
       '6.2#5T21.6o.3#7.T2.8o2.32~2.8o2.T7.3#2.6o20.5T2#6.',
-      '7.2#3T22.5o2.3#10.8o2.f9~3f2~2f2~3f9~f2.8o10.3#3.4o22.3T2#7.',
-      '.4T3.3#T28.4#10.8o2.5f5~3f2~2f2~3f5~5f2.7o11.4#28.T3#3.4T.',
-      '.5T3.3#27.3#8.f4.7o3.7f~4f2~2f2~4f~7f3.7o4.f8.3#27.3#3.5T.',
-      '.5T5.3#24.3#9.f.T3.5o4.30f4.6o2.T.f9.3#24.3#5.5T.',
-      '12.3#8.3T8.2T4#9.5f4.2o6.2f4~16f4~2f7.o4.5f9.4#2T8.3T8.3#12.',
-      '13.3#8.2T8.4#9.3f.4f11.f5~16f5~f11.4f.3f9.4#8.2T8.3#13.',
-      '2T5.4T3.5#13.3#16.f~2f2T2f3T4.f5~3f~8f~3f5~f4.3T2f2T2f~f16.3#13.5#3.4T5.2T',
-      '2T6.5T5.8#2.7#14.T.f2~.,T5f3.2f3~4f2~8f2~4f3~2f3.5fT,.2~f.T14.7#2.8#5.5T6.2T',
-      '11.3T9.8#20.3f.2,5f3.3f2~4f2~8f2~4f2~3f3.5f2,.3f20.8#9.3T11.',
-      '11.4T7.8T6.2T10.,6f4,2T2,3.Tf4~2f2~2f.2T.2f2~2f4~fT3.2,2T4,6f,10.2T6.8T7.4T11.',
-      'f10.4T7.8T5.3T9.9f3,3T2,2.T2f3~2f2~f6Tf2~2f3~2fT2.2,3T3,9f9.3T5.8T7.4T10.f',
+      '7.2#3T22.5o2.3#10.8o2.f9~f10~f9~f2.8o10.3#3.4o22.3T2#7.',
+      '.4T3.3#T28.4#10.8o2.5f5~f10~f5~5f2.7o11.4#28.T3#3.4T.',
+      '.5T3.3#27.3#8.f4.7o3.7f~2f10~2f~7f3.7o4.f8.3#27.3#3.5T.',
+      '.5T5.3#24.3#9.f.T3.5o4.9f12~9f4.6o2.T.f9.3#24.3#5.5T.',
+      '12.3#8.3T8.2T4#9.5f4.2o6.2f4~2f12~2f4~2f7.o4.5f9.4#2T8.3T8.3#12.',
+      '13.3#8.2T8.4#9.3f.4f11.f5~2f12~2f5~f11.4f.3f9.4#8.2T8.3#13.',
+      '2T5.4T3.5#13.3#16.f~2f2T2f3T4.f5~2f12~2f5~f4.3T2f2T2f~f16.3#13.5#3.4T5.2T',
+      '2T6.5T5.8#2.7#14.T.f2~.,T5f3.2f3~4f12~4f3~2f3.5fT,.2~f.T14.7#2.8#5.5T6.2T',
+      '11.3T9.8#20.3f.2,5f3.3f2~4f12~4f2~3f3.5f2,.3f20.8#9.3T11.',
+      '11.4T7.8T6.2T10.,6f4,2T2,3.Tf4~2f12~2f4~fT3.2,2T4,6f,10.2T6.8T7.4T11.',
+      'f10.4T7.8T5.3T9.9f3,3T2,2.T2f3~2f12~2f3~2fT2.2,3T3,9f9.3T5.8T7.4T10.f',
     ],
   },
 };

diff --git a/tools/make-marsh-map.py b/tools/make-marsh-map.py
@@ -46,7 +46,9 @@ BASE = (25, 25)
 RP = 22            # the plateau's radius (cells from the base); MAPS plateau.r
 EASE = 7           # the slope down from its rim; MAPS plateau.ease
 BASE_CLEAR = 14
-RAMPS = [(0, 1), (1 / math.sqrt(2), 1 / math.sqrt(2)), (1, 0)]   # toward the ally (south), the middle, the far side (east)
+RAMPS = [(0, 1), (1 / math.sqrt(2), 1 / math.sqrt(2))]   # toward the ally (south) and the middle (no ramp toward the enemy: see CHANNEL)
+CHANNEL = 73.5     # deep water from the map's edges to the island between west and east (cells from the middle line), so the
+                   # only way across is through the village (owner: with routes round the edges no fighting took place in the town)
 RAMP_W = 3.6       # half width of a ramp's gap in the cliffs
 V0 = 66.5          # the village island: cells with max(|x - C|, |y - C|) < C - V0
 SQ = 75            # the square: SQ .. N - 1 - SQ
@@ -55,9 +57,7 @@ GEMS = [(57, 57, 2.4)]
 ROADS = [   # mud causeways: [points], half width
     ([BASE, (25, 50), (22, 62), (24, C)], 1.5),          # down the ally ramp, meeting the ally's
     ([BASE, (44, 44), (V0 + 0.5, V0 + 0.5)], 1.5),       # down the middle ramp to the village
-    ([BASE, (50, 25), (64, 29), (C, 30)], 1.4),           # down the far ramp, across the north of the fen
     ([(V0 + 1, C), (36, C)], 1.4),                         # the village's west street out to the meadow
-    ([(C, V0 + 1), (C, 36)], 1.4),                         # and north into the fen
     ([(17, 58), (23, 60)], 1.1),
 ]
 POOLS = [(59.5, 72.5, 5.5, 3.8), (72.5, 59.5, 3.8, 5.5)]       # forced pools by the jetties: centre x, y, radii
@@ -88,6 +88,7 @@ def quarter(x, y):
         if x >= SQ and y >= SQ: return ','
         if lane(V0, V0 + 1.5) or lane(SQ - 2, SQ - 0.5) or x >= C - 1.6 or y >= C - 1.6: return ','
         return '.'
+    if x > CHANNEL + (noise(x, y, 3, 51) - 0.5) * 2.4 and y < V0 - 0.5: return '~'   # the channel between west and east
     for (x0, y0, x1, y1) in JETTIES:
         if x0 <= x <= x1 and y0 <= y <= y1: return '='
     for (cx, cy, rx, ry) in POOLS:
@@ -133,6 +134,14 @@ def main():
             nx, ny = x + dx, y + dy
             if 0 <= nx < N and 0 <= ny < N and (nx, ny) not in seen and walk(nx, ny): seen.add((nx, ny)); dq.append((nx, ny))
     for p in spawns + [[round(C), round(C) - 4]]: assert tuple(p) in seen, ('not reachable', p)
+    # West reaches east only through the village: with the island (and a cell of its shore) taken away, no way across.
+    seen2, dq = {(bx, by)}, deque([(bx, by)])
+    while dq:
+        x, y = dq.popleft()
+        for dx, dy in ((1, 0), (-1, 0), (0, 1), (0, -1)):
+            nx, ny = x + dx, y + dy
+            if 0 <= nx < N and 0 <= ny < N and (nx, ny) not in seen2 and walk(nx, ny) and min(q(nx), q(ny)) <= V0 - 1: seen2.add((nx, ny)); dq.append((nx, ny))
+    assert (m(bx), by) not in seen2 and (m(bx), m(by)) not in seen2, 'a way from west to east round the village'
     for y in range(N):
         for x in range(N):
             if grid[y][x] in '~f' and math.hypot(q(x) - bx, q(y) - by) < RP + 6: raise SystemExit(f'water on the slope at {x},{y}')

diff --git a/docs/NOTES.md b/docs/NOTES.md
@@ -2464,8 +2464,14 @@ Owner picked "faster buildings/walls/props" next (no look change). Same benchmar
   within RP + 6 cells of a start).
 - **Plateaus** (`plateau: { r: 22, ease: 7, low: 0.2 }`, world.js makeHeights): each start's ground at HG_MAX out to `r` cells,
   down to the low ground over `ease`; the rest of the map gets `low` x the usual hills. In the layout, a ring of cliff ('#') at the
-  plateau's rim with three ramps (gaps 7 cells wide): south toward the ally, diagonally to the village, and east along the map's
-  edge toward the enemy across it. The usual high-ground rules apply (sight, reach, slope speed).
+  plateau's rim with two ramps (gaps 7 cells wide): south toward the ally and diagonally toward the village. (A third, east along
+  the map's edge, was removed with the channel below.)
+- **One way across** (`CHANNEL` in the tool; owner: "it looks like all 4 bases are connected around the edge, so ... no fighting
+  takes place in the middle town"): deep water 12 cells wide from the north and south edges to the island splits west from east,
+  so every west-east route crosses the village island (the tool asserts it: with the island taken away, no way across). Before,
+  mud causeways along the north and south edges joined the enemies' east ramps about as short as the way through the town.
+  14-minute 4-computer Hard games, units lost inside the village: seed 1000 47 of 729 (6%) before, 152 of 389 (39%) after;
+  seed 8919 50 of 604 (8%) before, 248 of 527 (47%) after (scratch tally of where ground units died). The usual high-ground rules apply (sight, reach, slope speed).
 - **The fen**: fords ('f', shallow water anyone can cross) as its shallows, deep pools ('~'), reed beds and dead woods ('T'), mud
   causeways (','). `marsh: true` keeps every ford cell (genLayoutMap otherwise turns a ford with no water just up or down stream
   into bank). `theme: 'marsh'` (art.js groundPixels): olive grass, peaty mud, murky green-brown water with a muddy rim, and the
